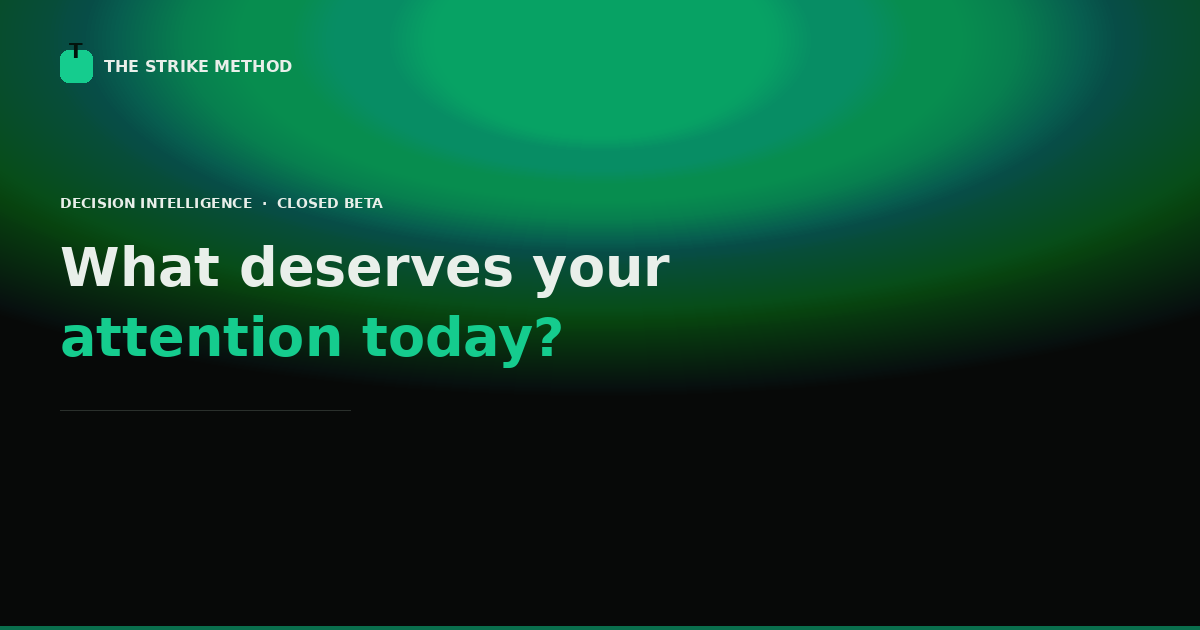
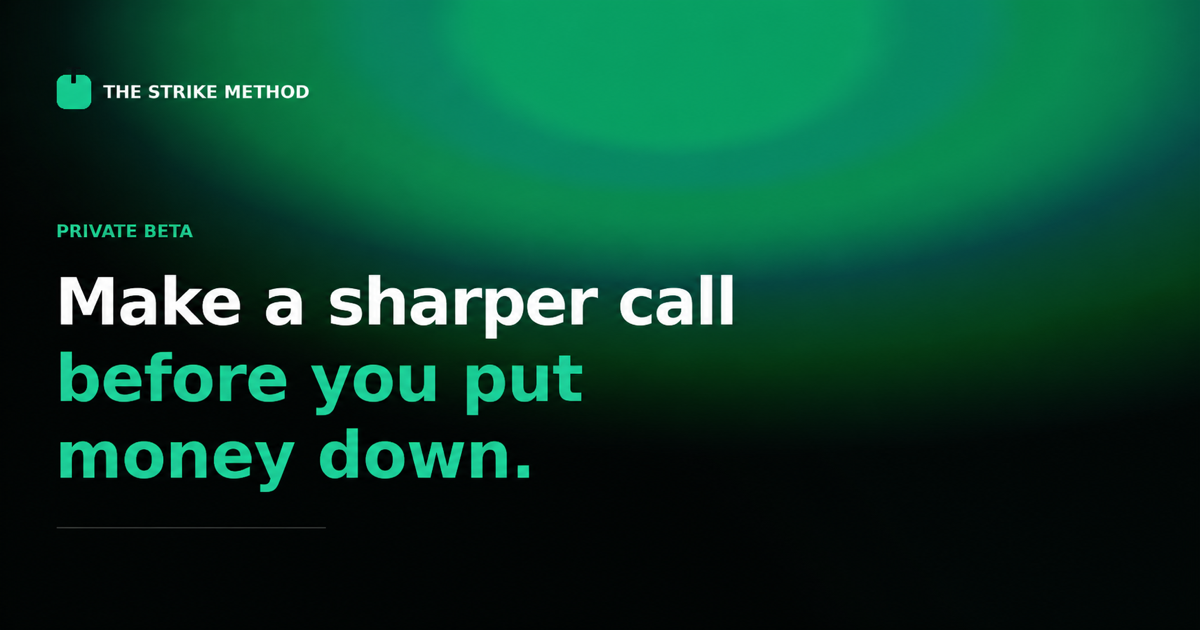
fix: complete landing page release readiness

diff --git a/index.html b/index.html
@@ -16,14 +16,14 @@
 <meta property="og:image" content="https://getstrikemethod.com/og-image.png" />
 <meta property="og:image:width" content="1200" />
 <meta property="og:image:height" content="630" />
-<meta property="og:image:alt" content="The Strike Method — A few decisions worth your money. Closed beta." />
+<meta property="og:image:alt" content="The Strike Method — Make a sharper call before you put money down. Private beta." />
 <meta name="twitter:card" content="summary_large_image" />
 <meta name="twitter:title" content="The Strike Method — Four ways to make a sharper decision." />
 <meta name="twitter:description" content="Qualified Options setups, priced Sports Prediction Markets, source-backed AI stock relationships, and a private record of your own decisions. Closed beta." />
 <meta name="twitter:image" content="https://getstrikemethod.com/og-image.png" />
-<meta name="twitter:image:alt" content="The Strike Method — A few decisions worth your money. Closed beta." />
+<meta name="twitter:image:alt" content="The Strike Method — Make a sharper call before you put money down. Private beta." />
 <script type="application/ld+json">
-{"@context":"https://schema.org","@type":"Organization","name":"The Strike Method","url":"https://getstrikemethod.com","description":"Filters thousands of market inputs into a small number of complete decisions. Closed beta.","slogan":"A few decisions worth your money."}
+{"@context":"https://schema.org","@type":"Organization","name":"The Strike Method","url":"https://getstrikemethod.com","description":"Research options, Sports Prediction Markets, and AI stocks in one place, then keep a private record of your own decisions. Closed beta.","slogan":"Make a sharper call before you put money down."}
 </script>
 <script type="application/ld+json">
 {"@context":"https://schema.org","@type":"WebSite","name":"The Strike Method","url":"https://getstrikemethod.com"}
@@ -128,7 +128,6 @@
   .edge-metric .em-v strong{color:var(--text)}
   .edge-focus{margin-top:14px;padding:13px 14px;border-radius:11px;background:rgba(21,204,142,.07);color:#cfd6d1;font-size:13px}
   .edge-focus b{color:var(--emerald)}
-  .secondary-explanation{display:none}
   .plan-grid .pf:nth-child(n+7){display:none}
   .sc-factors .sc-factor:nth-child(n+5){display:none}
   .sports-context-label,.sc-factors{display:none}
@@ -432,6 +431,7 @@
       <p class="lede"><strong>The Strike Method</strong> helps you research options, sports markets, and AI stocks in one place. You can also save your own trades and notes, so you have a record to learn from. If a setup is not ready, TSM says so.</p>
       <form class="quick-beta" id="heroBetaForm" method="POST" name="beta" aria-label="Join the founding beta">
         <input type="hidden" name="form-name" value="beta" />
+        <p hidden><label>Don't fill this out: <input name="bot-field" /></label></p>
         <input type="hidden" name="research_variant" value="hero-quick-2026-09" />
         <input type="hidden" name="utm_source" />
         <input type="hidden" name="utm_medium" />
@@ -508,89 +508,6 @@
       <summary>What TSM checks</summary>
       <div class="method-body">The checks vary by product. They can include historical data, current prices, technical structure, liquidity, costs, company filings, and market conditions. Published conclusions are recorded before the outcome is known.</div>
     </details>
-  </section>
-
-  <!-- THE PROBLEM -->
-  <section class="wrap block secondary-explanation" aria-hidden="true">
-    <span class="eyebrow">The problem</span>
-    <h2>You don't need more alerts. You need fewer, better decisions.</h2>
-    <p class="kicker">The hard part of investing isn't finding something to look at — it's separating the few situations worth your capital from the endless stream that isn't.</p>
-    <div class="versus">
-      <div class="vcol">
-        <div class="vk">What most tools give you</div>
-        <h3>More to sort through</h3>
-        <ul class="vlist">
-          <li><i></i>More tickers and watchlists</li>
-          <li><i></i>More alerts and notifications</li>
-          <li><i></i>More headlines and hot takes</li>
-          <li><i></i>More charts to interpret</li>
-          <li><i></i>More work left on your plate</li>
-        </ul>
-      </div>
-      <div class="vcol tsm">
-        <div class="vk">What TSM gives you</div>
-        <h3>A finished decision</h3>
-        <ul class="vlist">
-          <li><i></i>A short list, not a firehose</li>
-          <li><i></i>A complete plan with defined risk</li>
-          <li><i></i>The conditions that make it wrong</li>
-          <li><i></i>A record that keeps the misses and the passes</li>
-          <li><i></i>A clear "stand down" when nothing qualifies</li>
-        </ul>
-      </div>
-    </div>
-  </section>
-
-  <!-- THE FOUNDATION — FUNNEL -->
-  <section class="wrap block secondary-explanation" aria-hidden="true">
-    <span class="eyebrow">The foundation</span>
-    <h2>From thousands of inputs to a few complete decisions.</h2>
-    <p class="kicker">TSM runs on a mature research infrastructure. It tests methods across years of historical market data, combines that with point-in-time market inputs, quantitative analysis, technical analysis, and risk/cost/liquidity filters — then rejects most candidates to surface the few that deserve a complete plan. Or it says plainly: nothing today.</p>
-
-    <div class="funnel">
-      <div class="funnel-box wide">
-        <div class="fb-k">Inputs</div>
-        <div class="fb-t">Years of historical market data + point-in-time market inputs</div>
-        <div class="fb-d">Price, volume, and structure data across options, stocks, and sports markets — combined with point-in-time quotes, spreads, and liquidity</div>
-      </div>
-      <div class="funnel-arrow">↓</div>
-      <div class="funnel-box">
-        <div class="fb-k">Layer 1</div>
-        <div class="fb-t">Quantitative analysis</div>
-        <div class="fb-d">Methods tested out-of-sample across years of historical data — not curve-fit to one period</div>
-      </div>
-      <div class="funnel-arrow">↓</div>
-      <div class="funnel-box">
-        <div class="fb-k">Layer 2</div>
-        <div class="fb-t">Technical analysis and price/volume structure</div>
-        <div class="fb-d">Does the chart confirm or contradict the quantitative case?</div>
-      </div>
-      <div class="funnel-arrow">↓</div>
-      <div class="funnel-box">
-        <div class="fb-k">Layer 3</div>
-        <div class="fb-t">Risk, cost, and liquidity filters</div>
-        <div class="fb-d">Real-world conditions — fees, spreads, fill quality, and position sizing — not frictionless assumptions</div>
-      </div>
-      <div class="funnel-arrow">↓</div>
-      <div class="funnel-box reject">
-        <div class="fb-k">Most rejected</div>
-        <div class="funnel-stages">
-          <span class="funnel-stage stand">Rejected</span>
-          <span class="funnel-stage">Watch</span>
-          <span class="funnel-stage act">Ready</span>
-          <span class="funnel-stage stand">No trade</span>
-        </div>
-        <div class="fb-d" style="margin-top:10px">Most setups fail here. Weak structures, thin liquidity, missing evidence, or hard gates block them. Survivors arrive with entry, invalidation, targets, time horizon, and exit logic.</div>
-      </div>
-      <div class="funnel-arrow">↓</div>
-      <div class="funnel-box narrow">
-        <div class="fb-k">Result</div>
-        <div class="fb-t">A few complete decisions</div>
-        <div class="fb-d">Or an honest "no trade" — standing down is a valid decision</div>
-      </div>
-    </div>
-
-    <p class="kicker" style="margin-top:26px">Many candidates enter the funnel. Most are rejected — weak structure, thin liquidity, missing evidence, or a hard gate blocks them. What survives arrives with the entry, the risk, the target, the time horizon, and the exit — so you know what you are doing and why before you put money to work. When nothing clears the bar, TSM says so.</p>
   </section>
 
   <!-- OPTIONS -->
